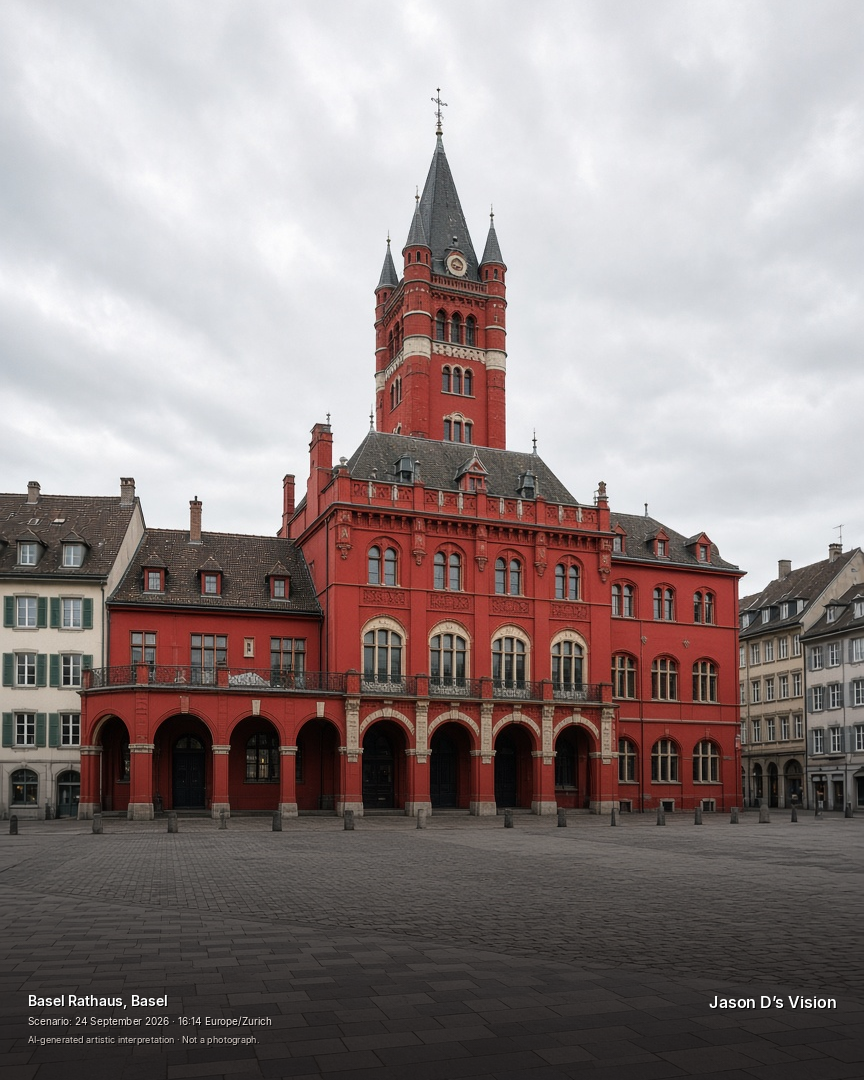
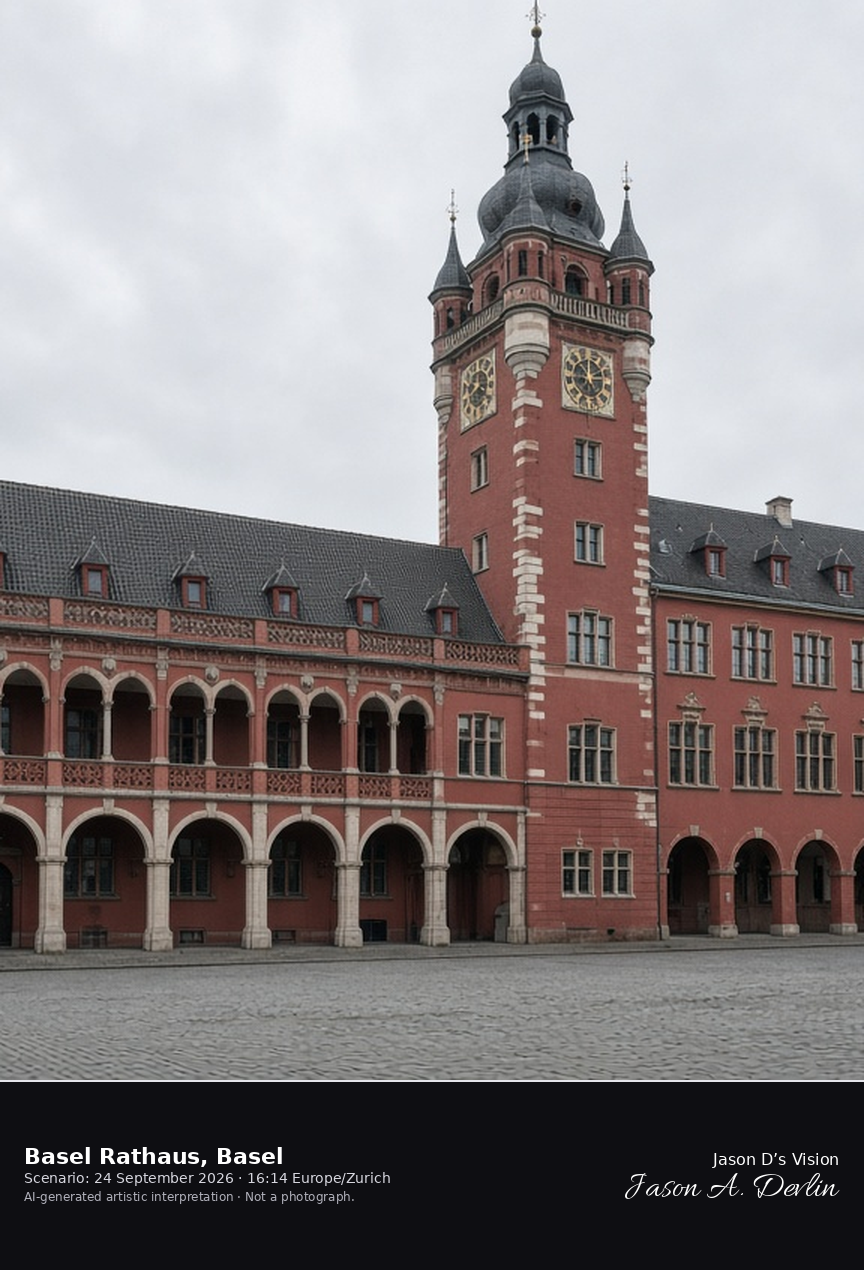
Rebase CH-01-081–087 weather rework onto main
Replay the authorized tip onto main after the earlier weather squashes.
Scene files are unchanged from that tip. The gallery index is rebuilt
from manifests so earlier batches and the word-of-day shell stay intact.

diff --git a/index.html b/index.html
@@ -1755,7 +1755,8 @@
     "file_4x5": "library/world/Switzerland/Glarus/ch-01-081-4x5.png",
     "license_badge": "Free · no credit needed",
     "license_anchor": "#license",
-    "approval_status": "Approved"
+    "approval_status": "Candidate",
+    "file_9x16": "library/world/Switzerland/Glarus/ch-01-081-9x16.png"
   },
   {
     "entry_id": "CH-01-082",
@@ -1771,7 +1772,8 @@
     "file_4x5": "library/world/Switzerland/Glarus/ch-01-082-4x5.png",
     "license_badge": "Free · no credit needed",
     "license_anchor": "#license",
-    "approval_status": "Approved"
+    "approval_status": "Candidate",
+    "file_9x16": "library/world/Switzerland/Glarus/ch-01-082-9x16.png"
   },
   {
     "entry_id": "CH-01-083",
@@ -1787,7 +1789,8 @@
     "file_4x5": "library/world/Switzerland/Delémont/ch-01-083-4x5.png",
     "license_badge": "Free · no credit needed",
     "license_anchor": "#license",
-    "approval_status": "Approved"
+    "approval_status": "Candidate",
+    "file_9x16": "library/world/Switzerland/Delémont/ch-01-083-9x16.png"
   },
   {
     "entry_id": "CH-01-084",
@@ -1803,7 +1806,8 @@
     "file_4x5": "library/world/Switzerland/Basel/ch-01-084-4x5.png",
     "license_badge": "Free · no credit needed",
     "license_anchor": "#license",
-    "approval_status": "Approved"
+    "approval_status": "Candidate",
+    "file_9x16": "library/world/Switzerland/Basel/ch-01-084-9x16.png"
   },
   {
     "entry_id": "CH-01-085",
@@ -1819,7 +1823,8 @@
     "file_4x5": "library/world/Switzerland/Laufen/ch-01-085-4x5.png",
     "license_badge": "Free · no credit needed",
     "license_anchor": "#license",
-    "approval_status": "Approved"
+    "approval_status": "Candidate",
+    "file_9x16": "library/world/Switzerland/Laufen/ch-01-085-9x16.png"
   },
   {
     "entry_id": "CH-01-086",
@@ -1835,7 +1840,8 @@
     "file_4x5": "library/world/Switzerland/Sarnen/ch-01-086-4x5.png",
     "license_badge": "Free · no credit needed",
     "license_anchor": "#license",
-    "approval_status": "Approved"
+    "approval_status": "Candidate",
+    "file_9x16": "library/world/Switzerland/Sarnen/ch-01-086-9x16.png"
   },
   {
     "entry_id": "CH-01-087",
@@ -1851,7 +1857,8 @@
     "file_4x5": "library/world/Switzerland/Zurich/ch-01-087-4x5.png",
     "license_badge": "Free · no credit needed",
     "license_anchor": "#license",
-    "approval_status": "Approved"
+    "approval_status": "Candidate",
+    "file_9x16": "library/world/Switzerland/Zurich/ch-01-087-9x16.png"
   },
   {
     "entry_id": "CH-01-088",

diff --git a/approvals/CH-01-082.md b/approvals/CH-01-082.md
@@ -12,17 +12,19 @@ approval_status on the page: Candidate
   - Dark alpine lake at about 848 metres, held by the Rhodannenberg dam at the east end.
   - Glärnisch cliffs along the southern shore, forested slopes opposite.
   - No town skyline and no castle. The dam is the standing structure, not new construction.
-- Weather: Model data from Open-Meteo, retrieved 2026-09-25T21:45:41Z (25 September 2026 23:45:41 Europe/Zurich), HTTP Date Fri, 25 Sep 2026 21:45:41 GMT, valid 2026-09-24T16:00 Europe/Zurich (24 September 2026 16:00 Europe/Zurich) — not a verified on-site observation. Separate request for 47.02556, 8.98056. The model-valid hour is 16:00–16:59 Europe/Zurich. The cited model time is the 16:00 step (interval 900 seconds). Scenario 24 September 2026 16:14 Europe/Zurich falls inside that model-valid hour. Weather code 3 (overcast), cloud cover 100%, 18.2°C, apparent temperature 15.6°C, wind 16.9 km/h from 246°, relative humidity 57%, precipitation 0.0 mm, is_day 1. Model cell elevation about 842.0 m. The lake surface is about 848 m. The temperature is the Open-Meteo cell at these coordinates, not a thermometer on the shore path.
+- Weather: Model data from Open-Meteo, retrieved 2026-09-27T16:56:03Z (2026-09-27T18:56:03+0200 Europe/Zurich), HTTP Date Sun, 27 Sep 2026 16:56:03 GMT, valid 2026-09-24T16:00 Europe/Zurich — not a verified on-site observation. Separate HTTP GET for 47.02556, 8.98056. The model-valid hour is 16:00–16:59 Europe/Zurich. The cited model time is the 16:00 step (interval 3600 seconds). Scenario 24 September 2026 16:14 Europe/Zurich falls inside that model-valid hour. Weather code 3 (overcast), cloud cover 100%, 17.9°C, apparent temperature 16.6°C, wind 8.9 km/h from 298°, relative humidity 59%, precipitation 0.0 mm, is_day 1. Model cell elevation about 842.0 m.
 - Solar direction / time of day: Afternoon. Calculated solar altitude about 29° and azimuth about 233° (southwest) at 16:14 Europe/Zurich on 24 September 2026 at this latitude, using a NOAA-style approximation. Sunrise roughly 07:17 and sunset roughly 19:15 Europe/Zurich. Calculated, not observed on site. Where the model is overcast, the frame uses diffuse light rather than hard sun.
 - Independent description: The Klöntalersee lies in the Klöntal, inside the municipality of Glarus, with the Glärnisch wall along its southern shore and the hamlets of Vorauen and Seerüti on the water. Riedern is only the valley entrance below the lake, and Näfels is in Glarus Nord, so the city field stays Glarus. The eastern dam belongs to the standing lake, and no extra village is added on the cliffs. The Open-Meteo model is fully overcast and breezy, with no rain.
 - Source-use notes: Generation lineage is text-prompt-only. No photographic reference was passed into the generator. Reference pages were consulted for place facts, not copied into the image. The finished masters are AI-generated artistic interpretations offered free to use, with no credit required. This note is an internal review, not a legal certification. No prominent identifiable person and no focal logo were requested.
 - Scenario label baked into the image: Scenario: 24 September 2026 · 16:14 Europe/Zurich
 - Disclosure baked into the image: AI-generated artistic interpretation · Not a photograph.
-- Signature baked into the image: Jason D’s Vision
+- Signature baked into the image: Jason D’s Vision (curly apostrophe) and Jason A. Devlin in Allura, both inside the label bar
 
 ## Five gates
 1. Visual/location — arrangement checked against the sources named above and against the generated frame. Editorial review only. Page status stays Candidate until Cosmo QCs it.
-2. Technical — 16:9 master is 1920×1080 and 4:5 master is 864×1080. Caption, scenario, disclosure, and the exact signature Jason D’s Vision are baked on a bottom gradient. Font sizes scale with width: caption 0.016, scenario 0.012, disclosure 0.010, signature 0.018.
+2. Technical — 16:9 master is 1920×1270, 4:5 master is 864×1270, and 9:16 master is 1080×2110. The photograph is pure. A 190px #0e0e12 bar with a 2px hairline holds the caption, scenario, disclosure, curly-apostrophe Jason D’s Vision, and Allura Jason A. Devlin.
 3. Originality/provenance — text-prompt-only lineage, recorded here.
 4. Commercial/IP — no prominent identifiable person and no focal logo or artwork. Internal note, not legal certification.
 5. Publication readiness — caption, scenario, signature, and disclosure are present. The preview calls this scene Candidate, and this log does not call it approved.
+## Weather rework 2026-09-27
+Builder rework. One Open-Meteo archive HTTP GET for this scene, not a shared request. HTTP Date Sun, 27 Sep 2026 16:56:03 GMT. Retrieved 2026-09-27T16:56:03Z. Model-valid hour 16:00–16:59 Europe/Zurich contains scenario minute 16:14. Masters were re-rendered to match that model hour and the label-bar finish. approval_status is Candidate. This note is not an approval.

diff --git a/approvals/CH-01-083.md b/approvals/CH-01-083.md
@@ -12,17 +12,19 @@ approval_status on the page: Candidate
   - Baroque château of 1716–1721 on a rusticated stone base, with two short wings, at the southwest corner of the old town.
   - Garden terrace below the base, and the tower of Saint-Marcel among the roofs.
   - Low Jura hills and the Birs valley. Not the Doubs bridge at St-Ursanne. No mural as the subject.
-- Weather: Model data from Open-Meteo, retrieved 2026-09-25T21:45:43Z (25 September 2026 23:45:43 Europe/Zurich), HTTP Date Fri, 25 Sep 2026 21:45:43 GMT, valid 2026-09-24T16:00 Europe/Zurich (24 September 2026 16:00 Europe/Zurich) — not a verified on-site observation. Separate request for 47.36493, 7.34453. The model-valid hour is 16:00–16:59 Europe/Zurich. The cited model time is the 16:00 step (interval 900 seconds). Scenario 24 September 2026 16:14 Europe/Zurich falls inside that model-valid hour. Weather code 3 (overcast), cloud cover 100%, 22.1°C, apparent temperature 19.6°C, wind 13.0 km/h from 284°, relative humidity 39%, precipitation 0.0 mm, is_day 1. Model cell elevation about 435.0 m.
+- Weather: Model data from Open-Meteo, retrieved 2026-09-27T16:56:05Z (2026-09-27T18:56:05+0200 Europe/Zurich), HTTP Date Sun, 27 Sep 2026 16:56:05 GMT, valid 2026-09-24T16:00 Europe/Zurich — not a verified on-site observation. Separate HTTP GET for 47.36493, 7.34453. The model-valid hour is 16:00–16:59 Europe/Zurich. The cited model time is the 16:00 step (interval 3600 seconds). Scenario 24 September 2026 16:14 Europe/Zurich falls inside that model-valid hour. Weather code 3 (overcast), cloud cover 100%, 19.6°C, apparent temperature 17.5°C, wind 13.5 km/h from 278°, relative humidity 52%, precipitation 0.0 mm, is_day 1. Model cell elevation about 435.0 m.
 - Solar direction / time of day: Afternoon. Calculated solar altitude about 30° and azimuth about 232° (southwest) at 16:14 Europe/Zurich on 24 September 2026 at this latitude, using a NOAA-style approximation. Sunrise roughly 07:23 and sunset roughly 19:22 Europe/Zurich. Calculated, not observed on site. Where the model is overcast, the frame uses diffuse light rather than hard sun.
 - Independent description: Delémont, capital of the canton of Jura, keeps a baroque château of 1716–1721 on a rusticated base at the southwest corner of the old town, with a garden terrace below it. The tower of Saint-Marcel belongs to the same small center on the Birs, and this is not the riverside town of St-Ursanne. No mural is the subject. The Open-Meteo model is fully overcast, with no rain.
 - Source-use notes: Generation lineage is text-prompt-only. No photographic reference was passed into the generator. Reference pages were consulted for place facts, not copied into the image. The finished masters are AI-generated artistic interpretations offered free to use, with no credit required. This note is an internal review, not a legal certification. No prominent identifiable person and no focal logo were requested.
 - Scenario label baked into the image: Scenario: 24 September 2026 · 16:14 Europe/Zurich
 - Disclosure baked into the image: AI-generated artistic interpretation · Not a photograph.
-- Signature baked into the image: Jason D’s Vision
+- Signature baked into the image: Jason D’s Vision (curly apostrophe) and Jason A. Devlin in Allura, both inside the label bar
 
 ## Five gates
 1. Visual/location — arrangement checked against the sources named above and against the generated frame. Editorial review only. Page status stays Candidate until Cosmo QCs it.
-2. Technical — 16:9 master is 1920×1080 and 4:5 master is 864×1080. Caption, scenario, disclosure, and the exact signature Jason D’s Vision are baked on a bottom gradient. Font sizes scale with width: caption 0.016, scenario 0.012, disclosure 0.010, signature 0.018.
+2. Technical — 16:9 master is 1920×1270, 4:5 master is 864×1270, and 9:16 master is 1080×2110. The photograph is pure. A 190px #0e0e12 bar with a 2px hairline holds the caption, scenario, disclosure, curly-apostrophe Jason D’s Vision, and Allura Jason A. Devlin.
 3. Originality/provenance — text-prompt-only lineage, recorded here.
 4. Commercial/IP — no prominent identifiable person and no focal logo or artwork. Internal note, not legal certification.
 5. Publication readiness — caption, scenario, signature, and disclosure are present. The preview calls this scene Candidate, and this log does not call it approved.
+## Weather rework 2026-09-27
+Builder rework. One Open-Meteo archive HTTP GET for this scene, not a shared request. HTTP Date Sun, 27 Sep 2026 16:56:05 GMT. Retrieved 2026-09-27T16:56:05Z. Model-valid hour 16:00–16:59 Europe/Zurich contains scenario minute 16:14. Masters were re-rendered to match that model hour and the label-bar finish. approval_status is Candidate. This note is not an approval.

diff --git a/approvals/CH-01-087.md b/approvals/CH-01-087.md
@@ -12,17 +12,19 @@ approval_status on the page: Candidate
   - One slender blue-green spire on the north tower. The south tower has had no spire since 1728–1732.
   - Münsterhof square on the left bank of the Limmat.
   - Windows dark. No stained glass and no twin-tower church as the subject.
-- Weather: Model data from Open-Meteo, retrieved 2026-09-25T21:45:48Z (25 September 2026 23:45:48 Europe/Zurich), HTTP Date Fri, 25 Sep 2026 21:45:48 GMT, valid 2026-09-24T16:15 Europe/Zurich (24 September 2026 16:15 Europe/Zurich) — not a verified on-site observation. Separate request for 47.36983, 8.54137. The model-valid hour is 16:00–16:59 Europe/Zurich. The cited model time is the 16:15 step (interval 900 seconds). Scenario 24 September 2026 16:17 Europe/Zurich falls inside that model-valid hour. Weather code 3 (overcast), cloud cover 100%, 21.3°C, apparent temperature 20.1°C, wind 9.1 km/h from 288°, relative humidity 50%, precipitation 0.0 mm, is_day 1. Model cell elevation about 414.0 m.
+- Weather: Model data from Open-Meteo, retrieved 2026-09-27T16:56:10Z (2026-09-27T18:56:10+0200 Europe/Zurich), HTTP Date Sun, 27 Sep 2026 16:56:10 GMT, valid 2026-09-24T16:00 Europe/Zurich — not a verified on-site observation. Separate HTTP GET for 47.36983, 8.54137. The model-valid hour is 16:00–16:59 Europe/Zurich. The cited model time is the 16:00 step (interval 3600 seconds). Scenario 24 September 2026 16:17 Europe/Zurich falls inside that model-valid hour. Weather code 3 (overcast), cloud cover 100%, 21.2°C, apparent temperature 18.9°C, wind 11.5 km/h from 281°, relative humidity 42%, precipitation 0.0 mm, is_day 1. Model cell elevation about 414.0 m.
 - Solar direction / time of day: Afternoon. Calculated solar altitude about 29° and azimuth about 233° (southwest) at 16:17 Europe/Zurich on 24 September 2026 at this latitude, using a NOAA-style approximation. Sunrise roughly 07:19 and sunset roughly 19:17 Europe/Zurich. Calculated, not observed on site. Where the model is overcast, the frame uses diffuse light rather than hard sun.
 - Independent description: The Fraumünster stands on the Münsterhof, on the left bank of the Limmat, and is known from outside by its single slender blue-green spire. The south tower has had no spire since the early eighteenth century, so the church does not read as a pair of towers. The Grossmünster is across the river and is not this subject, and the windows are shown dark, without stained glass. The Open-Meteo model is fully overcast, with no rain.
 - Source-use notes: Generation lineage is text-prompt-only. No photographic reference was passed into the generator. Reference pages were consulted for place facts, not copied into the image. The finished masters are AI-generated artistic interpretations offered free to use, with no credit required. This note is an internal review, not a legal certification. No prominent identifiable person and no focal logo were requested.
 - Scenario label baked into the image: Scenario: 24 September 2026 · 16:17 Europe/Zurich
 - Disclosure baked into the image: AI-generated artistic interpretation · Not a photograph.
-- Signature baked into the image: Jason D’s Vision
+- Signature baked into the image: Jason D’s Vision (curly apostrophe) and Jason A. Devlin in Allura, both inside the label bar
 
 ## Five gates
 1. Visual/location — arrangement checked against the sources named above and against the generated frame. Editorial review only. Page status stays Candidate until Cosmo QCs it.
-2. Technical — 16:9 master is 1920×1080 and 4:5 master is 864×1080. Caption, scenario, disclosure, and the exact signature Jason D’s Vision are baked on a bottom gradient. Font sizes scale with width: caption 0.016, scenario 0.012, disclosure 0.010, signature 0.018.
+2. Technical — 16:9 master is 1920×1270, 4:5 master is 864×1270, and 9:16 master is 1080×2110. The photograph is pure. A 190px #0e0e12 bar with a 2px hairline holds the caption, scenario, disclosure, curly-apostrophe Jason D’s Vision, and Allura Jason A. Devlin.
 3. Originality/provenance — text-prompt-only lineage, recorded here.
 4. Commercial/IP — no prominent identifiable person and no focal logo or artwork. Internal note, not legal certification.
 5. Publication readiness — caption, scenario, signature, and disclosure are present. The preview calls this scene Candidate, and this log does not call it approved.
+## Weather rework 2026-09-27
+Builder rework. One Open-Meteo archive HTTP GET for this scene, not a shared request. HTTP Date Sun, 27 Sep 2026 16:56:10 GMT. Retrieved 2026-09-27T16:56:10Z. Model-valid hour 16:00–16:59 Europe/Zurich contains scenario minute 16:17. Masters were re-rendered to match that model hour and the label-bar finish. approval_status is Candidate. This note is not an approval.

diff --git a/approvals/CH-01-085.md b/approvals/CH-01-085.md
@@ -12,17 +12,19 @@ approval_status on the page: Candidate
   - Wide cobbled main street between the town gates, with the town hall toward the upper end.
   - Baroque church of St. Katharina, tower added later, at the lower end near the Untertor.
   - The Birs just outside the old town. No waterfall and no cliff castle.
-- Weather: Model data from Open-Meteo, retrieved 2026-09-25T21:45:45Z (25 September 2026 23:45:45 Europe/Zurich), HTTP Date Fri, 25 Sep 2026 21:45:45 GMT, valid 2026-09-24T16:15 Europe/Zurich (24 September 2026 16:15 Europe/Zurich) — not a verified on-site observation. Separate request for 47.42193, 7.49946. The model-valid hour is 16:00–16:59 Europe/Zurich. The cited model time is the 16:15 step (interval 900 seconds). Scenario 24 September 2026 16:17 Europe/Zurich falls inside that model-valid hour. Weather code 3 (overcast), cloud cover 100%, 21.9°C, apparent temperature 20.2°C, wind 9.1 km/h from 288°, relative humidity 43%, precipitation 0.0 mm, is_day 1. Model cell elevation about 354.0 m.
+- Weather: Model data from Open-Meteo, retrieved 2026-09-27T16:56:07Z (2026-09-27T18:56:07+0200 Europe/Zurich), HTTP Date Sun, 27 Sep 2026 16:56:07 GMT, valid 2026-09-24T16:00 Europe/Zurich — not a verified on-site observation. Separate HTTP GET for 47.42193, 7.49946. The model-valid hour is 16:00–16:59 Europe/Zurich. The cited model time is the 16:00 step (interval 3600 seconds). Scenario 24 September 2026 16:17 Europe/Zurich falls inside that model-valid hour. Weather code 3 (overcast), cloud cover 100%, 20.2°C, apparent temperature 18.5°C, wind 12.3 km/h from 278°, relative humidity 53%, precipitation 0.0 mm, is_day 1. Model cell elevation about 354.0 m.
 - Solar direction / time of day: Afternoon. Calculated solar altitude about 29° and azimuth about 232° (southwest) at 16:17 Europe/Zurich on 24 September 2026 at this latitude, using a NOAA-style approximation. Sunrise roughly 07:23 and sunset roughly 19:21 Europe/Zurich. Calculated, not observed on site. Where the model is overcast, the frame uses diffuse light rather than hard sun.
 - Independent description: Laufen, in Basel-Landschaft, is the small town on the Birs whose cobbled main street runs between the town gates, with the baroque church of St. Katharina at the lower end and the town hall above. It has belonged to Basel-Landschaft since 1994. This is not Schloss Laufen above the Rhine Falls, which stands in the canton of Zurich. The Open-Meteo model is fully overcast, with no rain.
 - Source-use notes: Generation lineage is text-prompt-only. No photographic reference was passed into the generator. Reference pages were consulted for place facts, not copied into the image. The finished masters are AI-generated artistic interpretations offered free to use, with no credit required. This note is an internal review, not a legal certification. No prominent identifiable person and no focal logo were requested.
 - Scenario label baked into the image: Scenario: 24 September 2026 · 16:17 Europe/Zurich
 - Disclosure baked into the image: AI-generated artistic interpretation · Not a photograph.
-- Signature baked into the image: Jason D’s Vision
+- Signature baked into the image: Jason D’s Vision (curly apostrophe) and Jason A. Devlin in Allura, both inside the label bar
 
 ## Five gates
 1. Visual/location — arrangement checked against the sources named above and against the generated frame. Editorial review only. Page status stays Candidate until Cosmo QCs it.
-2. Technical — 16:9 master is 1920×1080 and 4:5 master is 864×1080. Caption, scenario, disclosure, and the exact signature Jason D’s Vision are baked on a bottom gradient. Font sizes scale with width: caption 0.016, scenario 0.012, disclosure 0.010, signature 0.018.
+2. Technical — 16:9 master is 1920×1270, 4:5 master is 864×1270, and 9:16 master is 1080×2110. The photograph is pure. A 190px #0e0e12 bar with a 2px hairline holds the caption, scenario, disclosure, curly-apostrophe Jason D’s Vision, and Allura Jason A. Devlin.
 3. Originality/provenance — text-prompt-only lineage, recorded here.
 4. Commercial/IP — no prominent identifiable person and no focal logo or artwork. Internal note, not legal certification.
 5. Publication readiness — caption, scenario, signature, and disclosure are present. The preview calls this scene Candidate, and this log does not call it approved.
+## Weather rework 2026-09-27
+Builder rework. One Open-Meteo archive HTTP GET for this scene, not a shared request. HTTP Date Sun, 27 Sep 2026 16:56:07 GMT. Retrieved 2026-09-27T16:56:07Z. Model-valid hour 16:00–16:59 Europe/Zurich contains scenario minute 16:17. Masters were re-rendered to match that model hour and the label-bar finish. approval_status is Candidate. This note is not an approval.

diff --git a/approvals/CH-01-081.md b/approvals/CH-01-081.md
@@ -12,17 +12,19 @@ approval_status on the page: Candidate
   - Neo-Romanesque town church of 1863–1866, one tall tower with a pointed spire, built after the fire of 1861.
   - Nineteenth-century grid of the rebuilt town, not a medieval street.
   - Glärnisch rock wall directly behind the roofs. No scaffolding on the church.
-- Weather: Model data from Open-Meteo, retrieved 2026-09-25T21:45:40Z (25 September 2026 23:45:40 Europe/Zurich), HTTP Date Fri, 25 Sep 2026 21:45:40 GMT, valid 2026-09-24T16:00 Europe/Zurich (24 September 2026 16:00 Europe/Zurich) — not a verified on-site observation. Separate request for 47.04028, 9.06556. The model-valid hour is 16:00–16:59 Europe/Zurich. The cited model time is the 16:00 step (interval 900 seconds). Scenario 24 September 2026 16:14 Europe/Zurich falls inside that model-valid hour. Weather code 3 (overcast), cloud cover 100%, 20.3°C, apparent temperature 18.6°C, wind 13.4 km/h from 20°, relative humidity 54%, precipitation 0.0 mm, is_day 1. Model cell elevation about 481.0 m.
+- Weather: Model data from Open-Meteo, retrieved 2026-09-27T16:56:02Z (2026-09-27T18:56:02+0200 Europe/Zurich), HTTP Date Sun, 27 Sep 2026 16:56:02 GMT, valid 2026-09-24T16:00 Europe/Zurich — not a verified on-site observation. Separate HTTP GET for 47.04028, 9.06556. The model-valid hour is 16:00–16:59 Europe/Zurich. The cited model time is the 16:00 step (interval 3600 seconds). Scenario 24 September 2026 16:14 Europe/Zurich falls inside that model-valid hour. Weather code 3 (overcast), cloud cover 100%, 20.2°C, apparent temperature 19.3°C, wind 7.5 km/h from 285°, relative humidity 54%, precipitation 0.0 mm, is_day 1. Model cell elevation about 481.0 m.
 - Solar direction / time of day: Afternoon. Calculated solar altitude about 29° and azimuth about 233° (southwest) at 16:14 Europe/Zurich on 24 September 2026 at this latitude, using a NOAA-style approximation. Sunrise roughly 07:16 and sunset roughly 19:15 Europe/Zurich. Calculated, not observed on site. Where the model is overcast, the frame uses diffuse light rather than hard sun.
 - Independent description: Glarus, the capital of its canton, is the town rebuilt on a grid after the fire of 1861, centered on the neo-Romanesque Stadtkirche with its tall pointed tower. The Glärnisch massif rises immediately behind the roofs. The church and the mountain are shown as they stand, without a medieval old town and without scaffolding. The Open-Meteo model is fully overcast, with no rain.
 - Source-use notes: Generation lineage is text-prompt-only. No photographic reference was passed into the generator. Reference pages were consulted for place facts, not copied into the image. The finished masters are AI-generated artistic interpretations offered free to use, with no credit required. This note is an internal review, not a legal certification. No prominent identifiable person and no focal logo were requested.
 - Scenario label baked into the image: Scenario: 24 September 2026 · 16:14 Europe/Zurich
 - Disclosure baked into the image: AI-generated artistic interpretation · Not a photograph.
-- Signature baked into the image: Jason D’s Vision
+- Signature baked into the image: Jason D’s Vision (curly apostrophe) and Jason A. Devlin in Allura, both inside the label bar
 
 ## Five gates
 1. Visual/location — arrangement checked against the sources named above and against the generated frame. Editorial review only. Page status stays Candidate until Cosmo QCs it.
-2. Technical — 16:9 master is 1920×1080 and 4:5 master is 864×1080. Caption, scenario, disclosure, and the exact signature Jason D’s Vision are baked on a bottom gradient. Font sizes scale with width: caption 0.016, scenario 0.012, disclosure 0.010, signature 0.018.
+2. Technical — 16:9 master is 1920×1270, 4:5 master is 864×1270, and 9:16 master is 1080×2110. The photograph is pure. A 190px #0e0e12 bar with a 2px hairline holds the caption, scenario, disclosure, curly-apostrophe Jason D’s Vision, and Allura Jason A. Devlin.
 3. Originality/provenance — text-prompt-only lineage, recorded here.
 4. Commercial/IP — no prominent identifiable person and no focal logo or artwork. Internal note, not legal certification.
 5. Publication readiness — caption, scenario, signature, and disclosure are present. The preview calls this scene Candidate, and this log does not call it approved.
+## Weather rework 2026-09-27
+Builder rework. One Open-Meteo archive HTTP GET for this scene, not a shared request. HTTP Date Sun, 27 Sep 2026 16:56:02 GMT. Retrieved 2026-09-27T16:56:02Z. Model-valid hour 16:00–16:59 Europe/Zurich contains scenario minute 16:14. Masters were re-rendered to match that model hour and the label-bar finish. approval_status is Candidate. This note is not an approval.

diff --git a/approvals/CH-01-084.md b/approvals/CH-01-084.md
@@ -12,17 +12,19 @@ approval_status on the page: Candidate
   - Red town hall facing the Marktplatz, with an arcade at street level.
   - Tall tower on the building, added in the 1898–1904 enlargement.
   - Burgher houses around the square. No Rhine, no stone bridge, and no cathedral towers.
-- Weather: Model data from Open-Meteo, retrieved 2026-09-25T21:45:44Z (25 September 2026 23:45:44 Europe/Zurich), HTTP Date Fri, 25 Sep 2026 21:45:44 GMT, valid 2026-09-24T16:00 Europe/Zurich (24 September 2026 16:00 Europe/Zurich) — not a verified on-site observation. Separate request for 47.55826, 7.58852. The model-valid hour is 16:00–16:59 Europe/Zurich. The cited model time is the 16:00 step (interval 900 seconds). Scenario 24 September 2026 16:14 Europe/Zurich falls inside that model-valid hour. Weather code 3 (overcast), cloud cover 100%, 22.8°C, apparent temperature 20.1°C, wind 15.3 km/h from 279°, relative humidity 39%, precipitation 0.0 mm, is_day 1. Model cell elevation about 269.0 m.
+- Weather: Model data from Open-Meteo, retrieved 2026-09-27T16:56:06Z (2026-09-27T18:56:06+0200 Europe/Zurich), HTTP Date Sun, 27 Sep 2026 16:56:06 GMT, valid 2026-09-24T16:00 Europe/Zurich — not a verified on-site observation. Separate HTTP GET for 47.55826, 7.58852. The model-valid hour is 16:00–16:59 Europe/Zurich. The cited model time is the 16:00 step (interval 3600 seconds). Scenario 24 September 2026 16:14 Europe/Zurich falls inside that model-valid hour. Weather code 3 (overcast), cloud cover 99%, 20.9°C, apparent temperature 18.8°C, wind 12.3 km/h from 278°, relative humidity 46%, precipitation 0.0 mm, is_day 1. Model cell elevation about 269.0 m.
 - Solar direction / time of day: Afternoon. Calculated solar altitude about 29° and azimuth about 232° (southwest) at 16:14 Europe/Zurich on 24 September 2026 at this latitude, using a NOAA-style approximation. Sunrise roughly 07:22 and sunset roughly 19:21 Europe/Zurich. Calculated, not observed on site. Where the model is overcast, the frame uses diffuse light rather than hard sun.
 - Independent description: The Basel Rathaus is the red town hall on the Marktplatz, with an arcade along the square and the tall tower added in the 1898–1904 enlargement. It stands in the old town, away from the Rhine front, so this frame is not the Minster and not the Mittlere Brücke. No coat of arms is readable. The Open-Meteo model is fully overcast and breezy, with no rain.
 - Source-use notes: Generation lineage is text-prompt-only. No photographic reference was passed into the generator. Reference pages were consulted for place facts, not copied into the image. The finished masters are AI-generated artistic interpretations offered free to use, with no credit required. This note is an internal review, not a legal certification. No prominent identifiable person and no focal logo were requested.
 - Scenario label baked into the image: Scenario: 24 September 2026 · 16:14 Europe/Zurich
 - Disclosure baked into the image: AI-generated artistic interpretation · Not a photograph.
-- Signature baked into the image: Jason D’s Vision
+- Signature baked into the image: Jason D’s Vision (curly apostrophe) and Jason A. Devlin in Allura, both inside the label bar
 
 ## Five gates
 1. Visual/location — arrangement checked against the sources named above and against the generated frame. Editorial review only. Page status stays Candidate until Cosmo QCs it.
-2. Technical — 16:9 master is 1920×1080 and 4:5 master is 864×1080. Caption, scenario, disclosure, and the exact signature Jason D’s Vision are baked on a bottom gradient. Font sizes scale with width: caption 0.016, scenario 0.012, disclosure 0.010, signature 0.018.
+2. Technical — 16:9 master is 1920×1270, 4:5 master is 864×1270, and 9:16 master is 1080×2110. The photograph is pure. A 190px #0e0e12 bar with a 2px hairline holds the caption, scenario, disclosure, curly-apostrophe Jason D’s Vision, and Allura Jason A. Devlin.
 3. Originality/provenance — text-prompt-only lineage, recorded here.
 4. Commercial/IP — no prominent identifiable person and no focal logo or artwork. Internal note, not legal certification.
 5. Publication readiness — caption, scenario, signature, and disclosure are present. The preview calls this scene Candidate, and this log does not call it approved.
+## Weather rework 2026-09-27
+Builder rework. One Open-Meteo archive HTTP GET for this scene, not a shared request. HTTP Date Sun, 27 Sep 2026 16:56:06 GMT. Retrieved 2026-09-27T16:56:06Z. Model-valid hour 16:00–16:59 Europe/Zurich contains scenario minute 16:14. Masters were re-rendered to match that model hour and the label-bar finish. approval_status is Candidate. This note is not an approval.

diff --git a/approvals/CH-01-086.md b/approvals/CH-01-086.md
@@ -12,17 +12,19 @@ approval_status on the page: Candidate
   - Baroque church of 1739–1742 with two towers capped by domes, and a wide stair.
   - Hillside of Kirchhofen above Lake Sarnen.
   - Not the Titlis summit and not the shore at Lungern. No readable arms.
-- Weather: Model data from Open-Meteo, retrieved 2026-09-25T21:45:47Z (25 September 2026 23:45:47 Europe/Zurich), HTTP Date Fri, 25 Sep 2026 21:45:47 GMT, valid 2026-09-24T16:15 Europe/Zurich (24 September 2026 16:15 Europe/Zurich) — not a verified on-site observation. Separate request for 46.89435, 8.23937. The model-valid hour is 16:00–16:59 Europe/Zurich. The cited model time is the 16:15 step (interval 900 seconds). Scenario 24 September 2026 16:17 Europe/Zurich falls inside that model-valid hour. Weather code 3 (overcast), cloud cover 100%, 22.2°C, apparent temperature 20.9°C, wind 9.1 km/h from 162°, relative humidity 46%, precipitation 0.0 mm, is_day 1. Model cell elevation about 504.0 m.
+- Weather: Model data from Open-Meteo, retrieved 2026-09-27T16:56:09Z (2026-09-27T18:56:09+0200 Europe/Zurich), HTTP Date Sun, 27 Sep 2026 16:56:09 GMT, valid 2026-09-24T16:00 Europe/Zurich — not a verified on-site observation. Separate HTTP GET for 46.89435, 8.23937. The model-valid hour is 16:00–16:59 Europe/Zurich. The cited model time is the 16:00 step (interval 3600 seconds). Scenario 24 September 2026 16:17 Europe/Zurich falls inside that model-valid hour. Weather code 3 (overcast), cloud cover 100%, 20.2°C, apparent temperature 20.7°C, wind 2.2 km/h from 9°, relative humidity 62%, precipitation 0.0 mm, is_day 1. Model cell elevation about 504.0 m.
 - Solar direction / time of day: Afternoon. Calculated solar altitude about 29° and azimuth about 233° (southwest) at 16:17 Europe/Zurich on 24 September 2026 at this latitude, using a NOAA-style approximation. Sunrise roughly 07:20 and sunset roughly 19:18 Europe/Zurich. Calculated, not observed on site. Where the model is overcast, the frame uses diffuse light rather than hard sun.
 - Independent description: Sarnen, capital of Obwalden, is marked by the baroque church of St. Peter and Paul at Kirchhofen, a double-towered front with domed caps on a stair above Lake Sarnen. Kirchhofen is a quarter of Sarnen, west of the village square and the cantonal Rathaus. The church is not the high summit of Titlis and not the shore at Lungern. The Open-Meteo model is fully overcast, with no rain.
 - Source-use notes: Generation lineage is text-prompt-only. No photographic reference was passed into the generator. Reference pages were consulted for place facts, not copied into the image. The finished masters are AI-generated artistic interpretations offered free to use, with no credit required. This note is an internal review, not a legal certification. No prominent identifiable person and no focal logo were requested.
 - Scenario label baked into the image: Scenario: 24 September 2026 · 16:17 Europe/Zurich
 - Disclosure baked into the image: AI-generated artistic interpretation · Not a photograph.
-- Signature baked into the image: Jason D’s Vision
+- Signature baked into the image: Jason D’s Vision (curly apostrophe) and Jason A. Devlin in Allura, both inside the label bar
 
 ## Five gates
 1. Visual/location — arrangement checked against the sources named above and against the generated frame. Editorial review only. Page status stays Candidate until Cosmo QCs it.
-2. Technical — 16:9 master is 1920×1080 and 4:5 master is 864×1080. Caption, scenario, disclosure, and the exact signature Jason D’s Vision are baked on a bottom gradient. Font sizes scale with width: caption 0.016, scenario 0.012, disclosure 0.010, signature 0.018.
+2. Technical — 16:9 master is 1920×1270, 4:5 master is 864×1270, and 9:16 master is 1080×2110. The photograph is pure. A 190px #0e0e12 bar with a 2px hairline holds the caption, scenario, disclosure, curly-apostrophe Jason D’s Vision, and Allura Jason A. Devlin.
 3. Originality/provenance — text-prompt-only lineage, recorded here.
 4. Commercial/IP — no prominent identifiable person and no focal logo or artwork. Internal note, not legal certification.
 5. Publication readiness — caption, scenario, signature, and disclosure are present. The preview calls this scene Candidate, and this log does not call it approved.
+## Weather rework 2026-09-27
+Builder rework. One Open-Meteo archive HTTP GET for this scene, not a shared request. HTTP Date Sun, 27 Sep 2026 16:56:09 GMT. Retrieved 2026-09-27T16:56:09Z. Model-valid hour 16:00–16:59 Europe/Zurich contains scenario minute 16:17. Masters were re-rendered to match that model hour and the label-bar finish. approval_status is Candidate. This note is not an approval.
